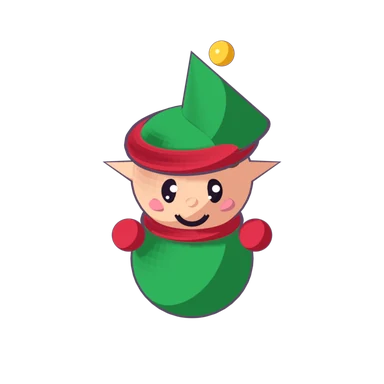
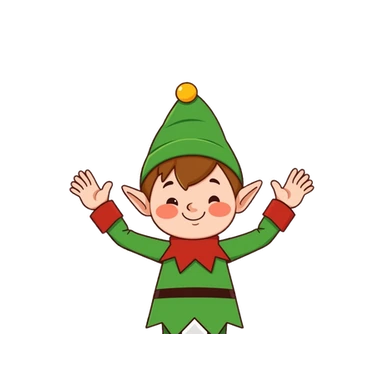
Whack-an-Elf: the elf, the golden elf and the Grump in the game's flat 2D look
The pop-ups were Blender renders of simple shapes: a different game beside
the sticker avatars and the Ring Toss reindeer. New ones from Flux
(tools/art/whack2d.py renders takes of the elf and the Grump;
whack2d_place.py puts the top of each chosen take on the hole's canvas so it
rises out of the hole): a waving elf, the same elf turned to gold, and the
Grump as an original character (a sour purple troll in a top hat, arms
crossed). Each bonked twin is the same picture knocked askew with stars: two
takes of "the same character, dazed" never matched closely enough to swap
mid-animation. The holes and the mallet are unchanged.

Changed region(s): [[0.1562, 0.0938, 0.8438, 0.875]]

diff --git a/web/src/ui/whack.tsx b/web/src/ui/whack.tsx
@@ -1,6 +1,9 @@
-// Whack-an-Elf art (web/public/art/whack, rendered in Blender by tools/art/whack.py): a snowy hole in
-// two layers so a pop-up sinks behind the front lip, the elf / golden elf / Grump and their bonked
-// faces, and a candy-cane mallet that swings on a hit. Every picture shares the hole's camera.
+// Whack-an-Elf art (web/public/art/whack): a snowy hole in two layers so a pop-up sinks behind the front
+// lip (rendered in Blender by tools/art/whack.py), a candy-cane mallet that swings on a hit, and the
+// pop-ups in the game's flat 2D look (tools/art/whack2d.py + whack2d_place.py: Flux, then placed on the
+// hole's canvas): the elf, the golden elf (the same elf turned to gold) and the Grump, each with a
+// bonked twin (the same picture knocked askew, stars round its head). Every picture shares the hole's
+// 384 px canvas.
 import type { WhackKind } from '../core/party';
 
 export type HoleState = 'down' | 'up' | 'hit';

diff --git a/tools/art/whack2d_place.py b/tools/art/whack2d_place.py
@@ -1,0 +1,93 @@
+"""Turn the chosen whack2d.py takes into Whack-an-Elf's six pop-up pictures (web/public/art/whack/).
+
+    python whack2d_place.py cut_dir --elf elf-up-3 --grump grump-up-2
+
+Every picture is 384 x 384 and shares the hole's camera (hole-back / hole-front, still from whack.py):
+a pop-up is centred on the hole and its cut-off waist sits below the line where the front lip hides it
+(CLIP, 81% down), so it rises out of the hole. From one take of each character:
+  - only the top of the figure is kept (head, arms, chest: the hole hides the rest);
+  - the golden elf is the elf itself turned to gold (same pose, so the two read as kin);
+  - the bonked face is the same picture knocked askew with stars round its head (two takes of "the
+    same character, dazed" never matched closely enough to swap in mid-animation).
+"""
+import math, sys
+from pathlib import Path
+import numpy as np
+from PIL import Image, ImageDraw
+
+SIZE, CLIP = 384, 0.81
+OUT = Path(__file__).resolve().parents[2] / "web/public/art/whack"
+#       share of the figure kept (from the top: enough that the cut is well below the lip), its width on the
+#       384 canvas. The cut edge sits at BOTTOM; how high the head comes follows from the take's own shape.
+# a squat figure (the Grump) is sized by height instead (width 0): its head reaches TOP, wherever that puts its width
+SHAPE = {"elf": (0.82, 250), "grump": (0.92, 0)}
+TOP = 0.13
+BOTTOM = CLIP + 0.06
+
+
+def bust(cut_png, keep, width):
+    """The top of the figure on the hole's canvas; returns it and how far down its head starts (0 to 1)."""
+    im = Image.open(cut_png).convert("RGBA")
+    im = im.crop(im.getbbox())
+    im = im.crop((0, 0, im.width, int(im.height * keep)))
+    im = im.crop(im.getbbox())                 # trimmed again: a ground shadow under the feet was wider than the figure
+    if not width: width = min(340, int(im.width * (BOTTOM - TOP) * SIZE / im.height))
+    h = int(im.height * width / im.width)
+    im = im.resize((width, h), Image.LANCZOS)
+    y = int(SIZE * BOTTOM) - h
+    canvas = Image.new("RGBA", (SIZE, SIZE), (0, 0, 0, 0))
+    canvas.alpha_composite(im, ((SIZE - im.width) // 2, max(0, y)))
+    return canvas, max(0, y) / SIZE
+
+
+def golden(im):
+    """The same picture in gold: its light and dark kept, its colours gone to a gold ramp (lines stay dark)."""
+    a = np.asarray(im).astype(np.float32)
+    lum = (0.299 * a[..., 0] + 0.587 * a[..., 1] + 0.114 * a[..., 2]) / 255.0
+    stops = [(0.0, (70, 40, 5)), (0.25, (150, 95, 10)), (0.55, (240, 175, 20)), (0.8, (255, 220, 70)), (1.0, (255, 250, 200))]
+    out = np.zeros_like(a[..., :3])
+    for (t0, c0), (t1, c1) in zip(stops, stops[1:]):
+        m = (lum >= t0) & (lum <= t1)
+        f = ((lum - t0) / (t1 - t0))[..., None]
+        out = np.where(m[..., None], np.array(c0) + (np.array(c1) - np.array(c0)) * f, out)
+    g = Image.fromarray(np.dstack([out, a[..., 3]]).astype(np.uint8), "RGBA")
+    d = ImageDraw.Draw(g)
+    for x, y, r in [(80, 150, 11), (306, 190, 8), (290, 96, 6)]:      # a few sparkles
+        d.polygon([(x, y - r), (x + r * 0.28, y - r * 0.28), (x + r, y), (x + r * 0.28, y + r * 0.28), (x, y + r),
+                   (x - r * 0.28, y + r * 0.28), (x - r, y), (x - r * 0.28, y - r * 0.28)], fill=(255, 255, 255, 255), outline=(200, 140, 0, 255))
+    return g
+
+
+def bonked(im, top):
+    """Knocked askew, with stars circling where the head is."""
+    tilt = im.rotate(-11, resample=Image.BICUBIC, center=(SIZE // 2, int(SIZE * CLIP)))
+    d = ImageDraw.Draw(tilt)
+    cx, cy = SIZE // 2 + 26, int(SIZE * top) + 26
+    for k in range(5):
+        ang = math.pi * (1.05 + 0.9 * k / 4)
+        x, y, r = cx + math.cos(ang) * 96, cy + math.sin(ang) * 46, 15 - (k % 2) * 4
+        pts = []
+        for i in range(10):
+            rr = r if i % 2 == 0 else r * 0.45
+            t = -math.pi / 2 + i * math.pi / 5
+            pts.append((x + math.cos(t) * rr, y + math.sin(t) * rr))
+        d.polygon(pts, fill=(255, 214, 40, 255), outline=(29, 42, 58, 255))
+    return tilt
+
+
+def main():
+    args = sys.argv[1:]
+    cut = Path(args[0])
+    pick = {k: args[args.index(f"--{k}") + 1] for k in ("elf", "grump")}
+    made = {}
+    for who, (keep, width) in SHAPE.items():
+        made[who] = bust(cut / f"{pick[who]}.png", keep, width)
+    made["gold"] = (golden(made["elf"][0]), made["elf"][1])
+    for who, (im, top) in made.items():
+        im.save(OUT / f"{who}.webp", quality=92, method=6)
+        bonked(im, top).save(OUT / f"{who}-bonk.webp", quality=92, method=6)
+        print("saved", who, "and", f"{who}-bonk")
+
+
+if __name__ == "__main__":
+    main()

diff --git a/tools/art/whack2d.py b/tools/art/whack2d.py
@@ -1,0 +1,72 @@
+"""Whack-an-Elf's pop-ups in the game's flat 2D look (Flux schnell in the local ComfyUI), replacing the
+Blender ones (which looked like a different game beside the sticker avatars and the Ring Toss reindeer).
+
+    python whack2d.py out_dir [--seeds 6] [--only elf,grump] [--bonk]
+
+Three characters, each seen from the waist up (the hole hides the rest): the elf, the golden elf, and
+the Grump (an original sour little fellow in a top hat: nobody's character). `--bonk` renders the
+dazed face of each with the SAME seed and the same description, so a take and its bonked twin match as
+closely as the model allows. Raw takes go to out/raw, cut-outs to out/cut and a labelled sheet to
+out/sheet.png. Pick a seed per character, then `place.py`-style by hand: see README (Whack-an-Elf).
+"""
+import sys
+from pathlib import Path
+from PIL import Image, ImageDraw
+from gen import cut, render
+
+STYLE = ("A flat vector cartoon illustration of {subject}. Clean bold shapes, thick dark outline, smooth soft cel "
+         "shading, bright friendly colors, simple and polished like a modern mobile game character. Seen straight "
+         "from the front, centered, the body cut off at the waist by the bottom edge of the picture. No sticker "
+         "border, no white rim, no frame. Isolated on a plain solid flat medium grey background, no shadow, no "
+         "text, no letters.")
+WHO = {
+    "elf": "a cheeky Christmas elf from the waist up, big head, pointy ears, rosy cheeks, a green pointed hat with "
+           "a yellow bell on its tip, a green tunic with a red collar, both little arms raised and waving",
+    "gold": "a shiny solid gold statue of a cheeky Christmas elf from the waist up, entirely golden yellow from hat "
+            "to tunic, big head, pointy ears, a pointed hat with a bell on its tip, both little arms raised, small "
+            "sparkles around it",
+    "grump": "a sour grumpy little old troll from the waist up, big head, dark purple fur, thick angry frowning "
+             "eyebrows, a big downturned scowling mouth, a tall black top hat with a sprig of holly, a dark grey "
+             "scarf, little arms folded crossly",
+}
+FACE = {
+    "up": "",
+    "bonk": ", dazed and dizzy after a bonk on the head: eyes turned into spirals, tongue sticking out, a big red "
+            "bump on the forehead, the hat knocked crooked, little yellow stars circling the head",
+}
+
+
+def main():
+    args = sys.argv[1:]
+    out = Path(args[0]); (out / "raw").mkdir(parents=True, exist_ok=True); (out / "cut").mkdir(exist_ok=True)
+    seeds = int(args[args.index("--seeds") + 1]) if "--seeds" in args else 6
+    only = args[args.index("--only") + 1].split(",") if "--only" in args else list(WHO)
+    faces = ["up", "bonk"] if "--bonk" in args else ["up"]
+    pick = [int(x) for x in args[args.index("--pick") + 1].split(",")] if "--pick" in args else range(seeds)
+    tiles = []
+    for who in only:
+        for face in faces:
+            for s in pick:
+                name = f"{who}-{face}-{s}"
+                raw = out / "raw" / f"{name}.png"
+                if not raw.exists():
+                    render(STYLE.format(subject=WHO[who] + FACE[face]), 7000 + s).save(raw)
+                    print("rendered", name, flush=True)
+                im = cut(Image.open(raw).convert("RGB"), out=384, pad=0.02)
+                im.save(out / "cut" / f"{name}.png")
+                tiles.append((name, im))
+    # a labelled sheet on a snowy blue (how they will sit in the game)
+    cols = len(list(pick)) or 1
+    rows = (len(tiles) + cols - 1) // cols
+    sheet = Image.new("RGB", (cols * 200, rows * 220), (205, 225, 244))
+    d = ImageDraw.Draw(sheet)
+    for i, (name, im) in enumerate(tiles):
+        x, y = (i % cols) * 200, (i // cols) * 220
+        sheet.paste(im.resize((192, 192)), (x + 4, y + 4), im.resize((192, 192)))
+        d.text((x + 6, y + 200), name, fill=(20, 30, 50))
+    sheet.save(out / "sheet.png")
+    print("sheet", out / "sheet.png")
+
+
+if __name__ == "__main__":
+    main()

diff --git a/ROADMAP.md b/ROADMAP.md
@@ -387,3 +387,4 @@ after Step 1, after Step 2, and before the landing page design.
 - 2026-11-16: Kevin played Nutcracker Knockout and likes it ("cool", "good to go"). His asks, built: rounds were over too soon, so a part now takes two blows (12 health, 60 s rounds); a dodge (it replaced the timed parry: one timed defence is enough for a phone you are not looking at); left/right became a quick jab and a slow haymaker that smashes a block. Also a slow-motion knockout with the camera following the head, and tin sounds. **Not wanted yet (his call): anything for the other players during a fight.** Still open: feel on real phones, avatars on the robots, a comeback lean (needs simulating). He also wants the **Gift Conveyor rebuilt as a real belt**: unfinished toys roll along a conveyor on the TV, each player adds their piece (wheels, headlights) as toys pass their station; my additions he has not yet answered: the captain runs the belt-speed lever, keep the stowaway, small teams double up stations, the phone shows a close-up of your stretch; replace the current game, do not add a second.
 - 2026-11-16: **the Gift Conveyor rebuilt as a real belt** (Kevin's design; it replaces the phone-to-phone version). `engines/belt.ts` + tests, `conveyor/` rewritten, `ui/conveyorBelt.tsx`, new phone card and TV stage, `e2e/conveyor.spec.js`. Kevin's call on speed: no captain's lever; each belt speeds up with its own team's deliveries, and (my addition, to confirm with him) both creep up as the round goes on. Open: his verdict on look and feel; pacing numbers (quota 8, 90 s, base 10 s a traverse, top speed leaves about 0.85 s at a station) are untested on real phones; `engines/workflow.ts` is now unused (delete or keep for a future game); the TV belt has a lot of empty height.
 - 2026-11-16: betting follow-ups done: the phone only says a call stakes a chip when bets really are open on that duel; browser tests for the pool (six players) and for a small table (free vote). Still open in Step 2c: live odds on the phone and TV, the rule docs' betting text, undo restoring `betPool`.
+- 2026-11-16: paused mini-games really stand still (`shiftTime`, `arenaView.pausedAt`). **Whack-an-Elf polished** after a review Kevin asked for: the TV's live bars never filled (fixed); full screen on the TV and console with the board and a live race (`host/WhackStage.tsx`); the phone's board fills the screen with sound, vibration, score, place and a 3-2-1; a roll (three in a row: +1 a hit, `whackTap`); new flat 2D pop-ups from Flux (`tools/art/whack2d.py`, `whack2d_place.py`) replacing the Blender ones. **The Grinch is the Grump everywhere** (Kevin's choice; 115 places, incl. "Grump's Gambit"). Open: the holes and mallet are still the Blender renders; the `gambit` icon was drawn for the old name; `JingleBrawlV2.html` (the old export) now says Grump too but is otherwise stale; Sketch-Off has had no such pass.

diff --git a/tools/art/README.md b/tools/art/README.md
@@ -36,7 +36,18 @@ mirrored, so both sides score alike, and the grey ground shadow under its beard 
 `ui/ringtoss/scene.ts`) together. `reindeer_blender.py` builds one in Blender instead (exact tip
 positions, but it looked less finished than the Flux art; kept for reference).
 
-## Whack-an-Elf (Blender)
+## Whack-an-Elf pop-ups (Flux, 2D)
+
+The elf, the golden elf and the Grump are flat 2D like the rest of the game (the Blender ones looked
+like a different game). `whack2d.py out --seeds 5` renders takes of the elf and the Grump (full
+figures on grey; `out/sheet.png` to pick from); `whack2d_place.py out/cut --elf elf-up-3 --grump
+grump-up-2` cuts the top of each chosen take onto the hole's 384 px canvas (its cut edge below the
+lip, so it rises out of the hole) and writes all six pictures to `web/public/art/whack/`: the golden
+elf is the elf recoloured (same pose), and each `-bonk` is the same picture tilted with stars (two
+takes of "the same character, dazed" never matched). The Grump is an original character (a sour
+purple troll in a top hat): the prompt never names anyone else's.
+
+## Whack-an-Elf holes and mallet (Blender)
 
 `whack.py` builds the Whack-an-Elf pieces from primitives in Blender (cel shading + inverted-hull
 outline, to sit with the stickers) and renders them with one camera, so the layers line up:
